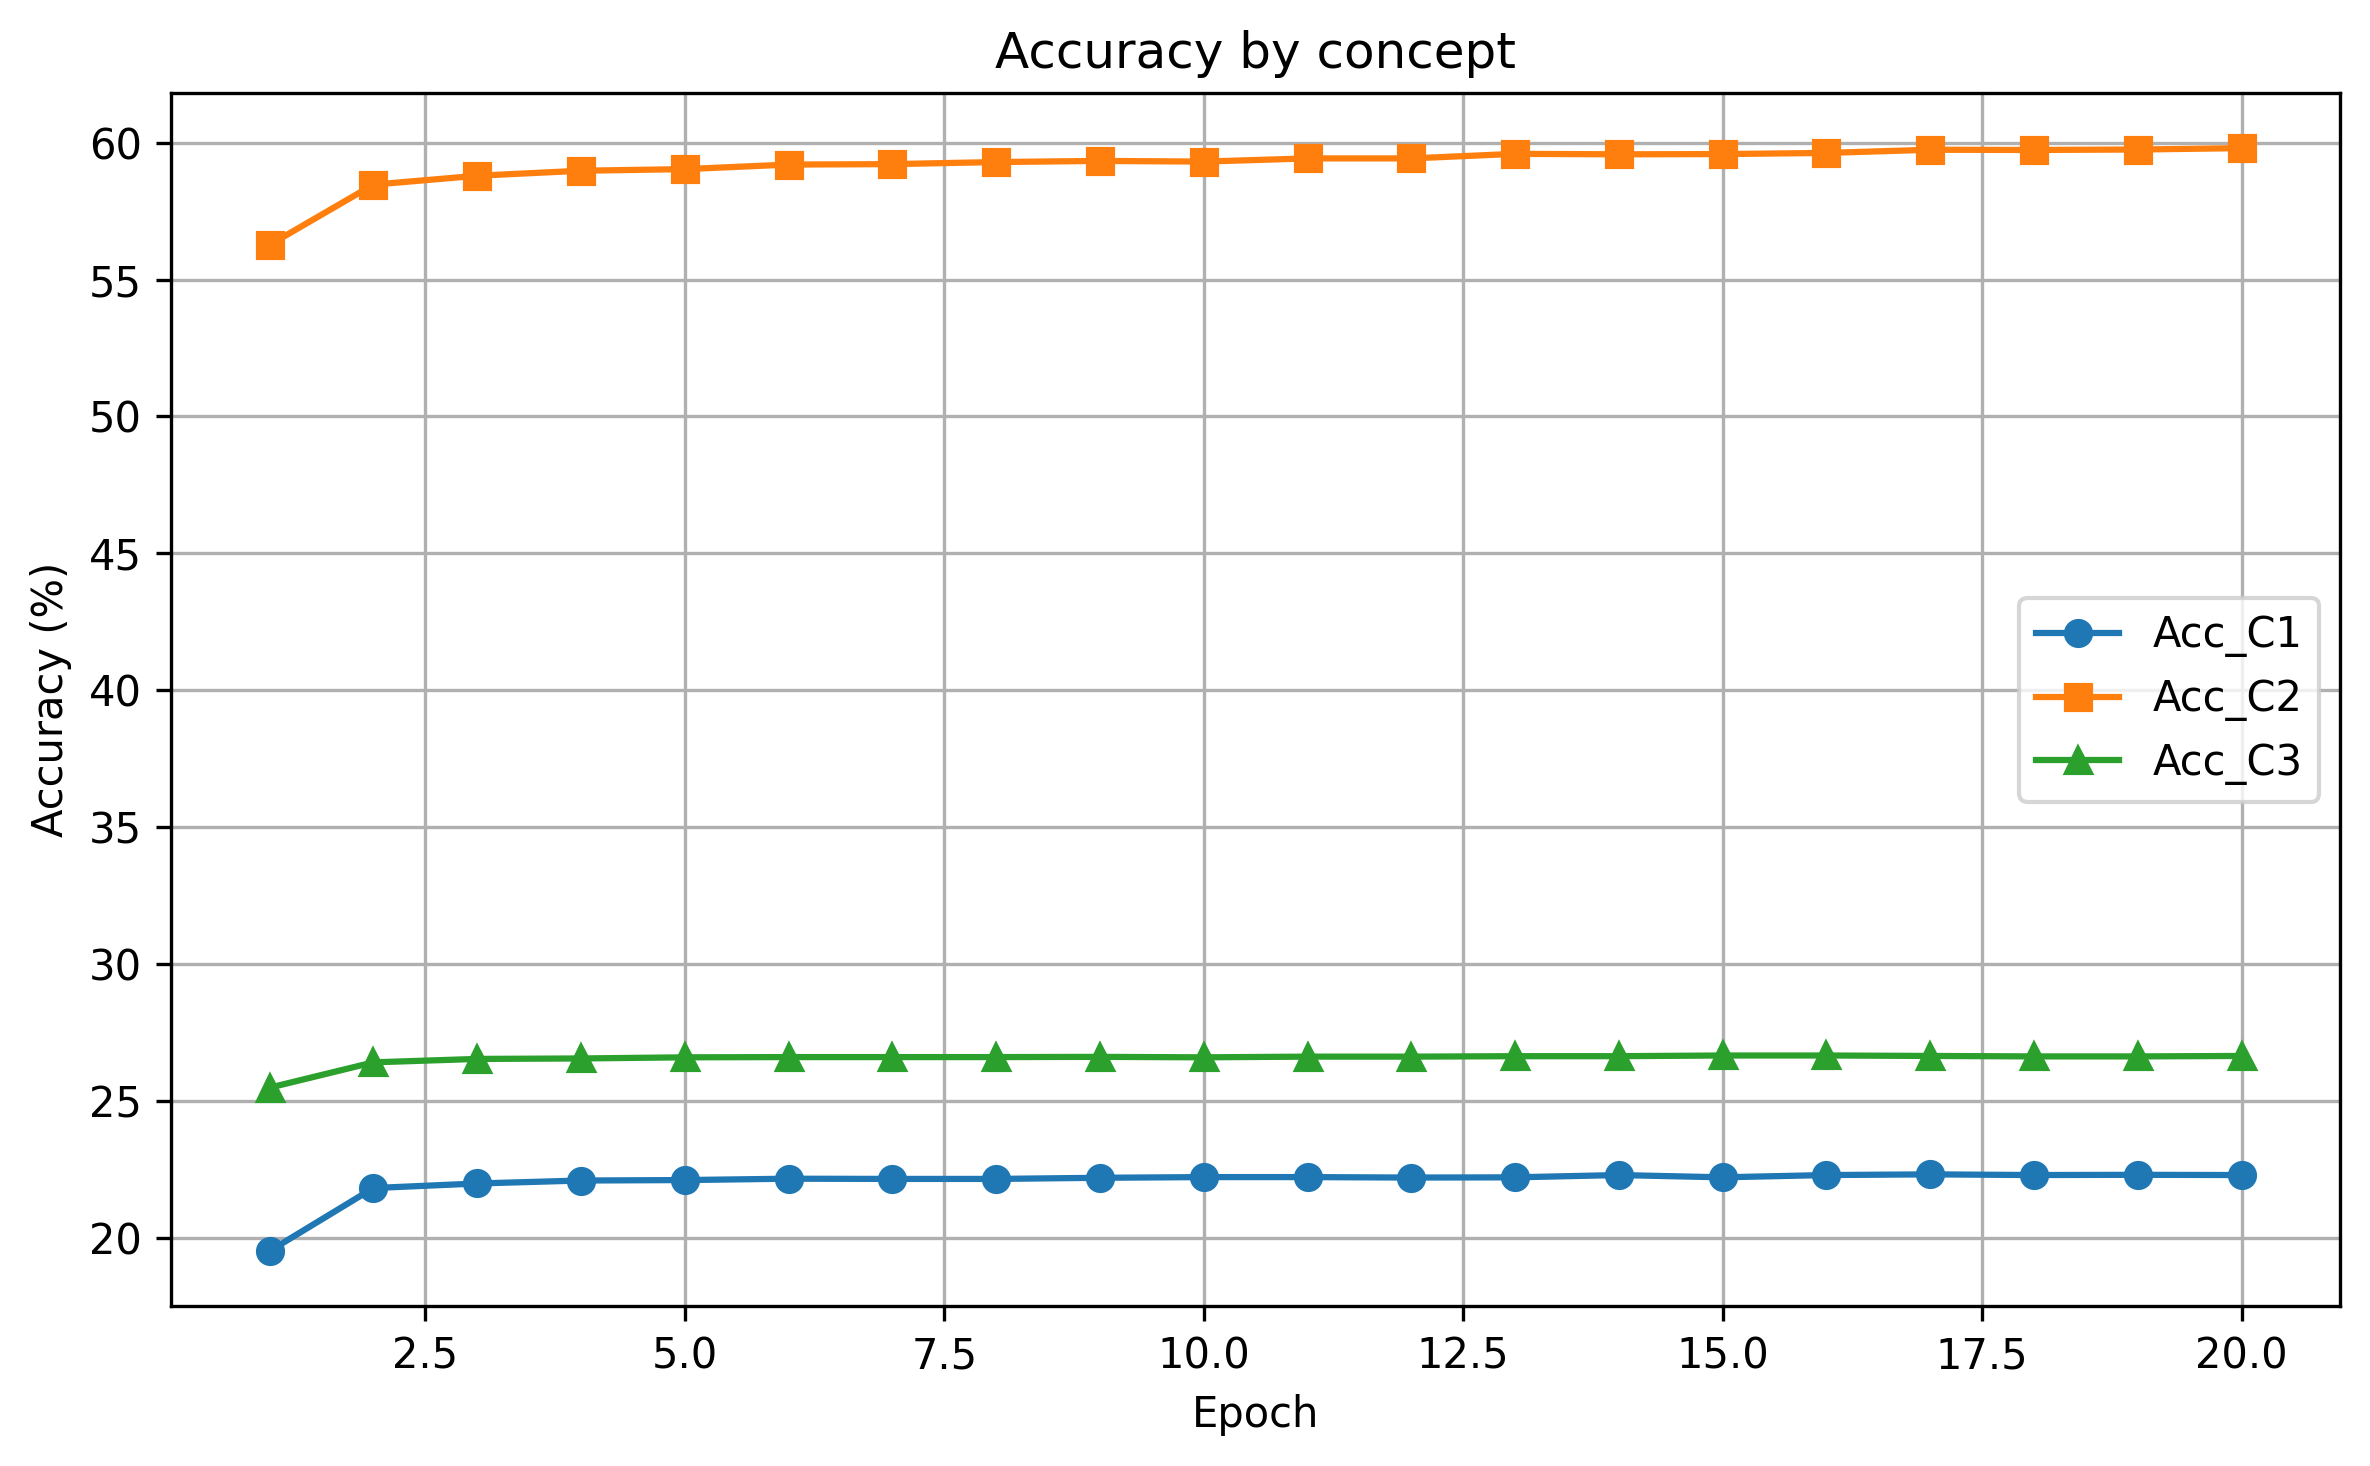
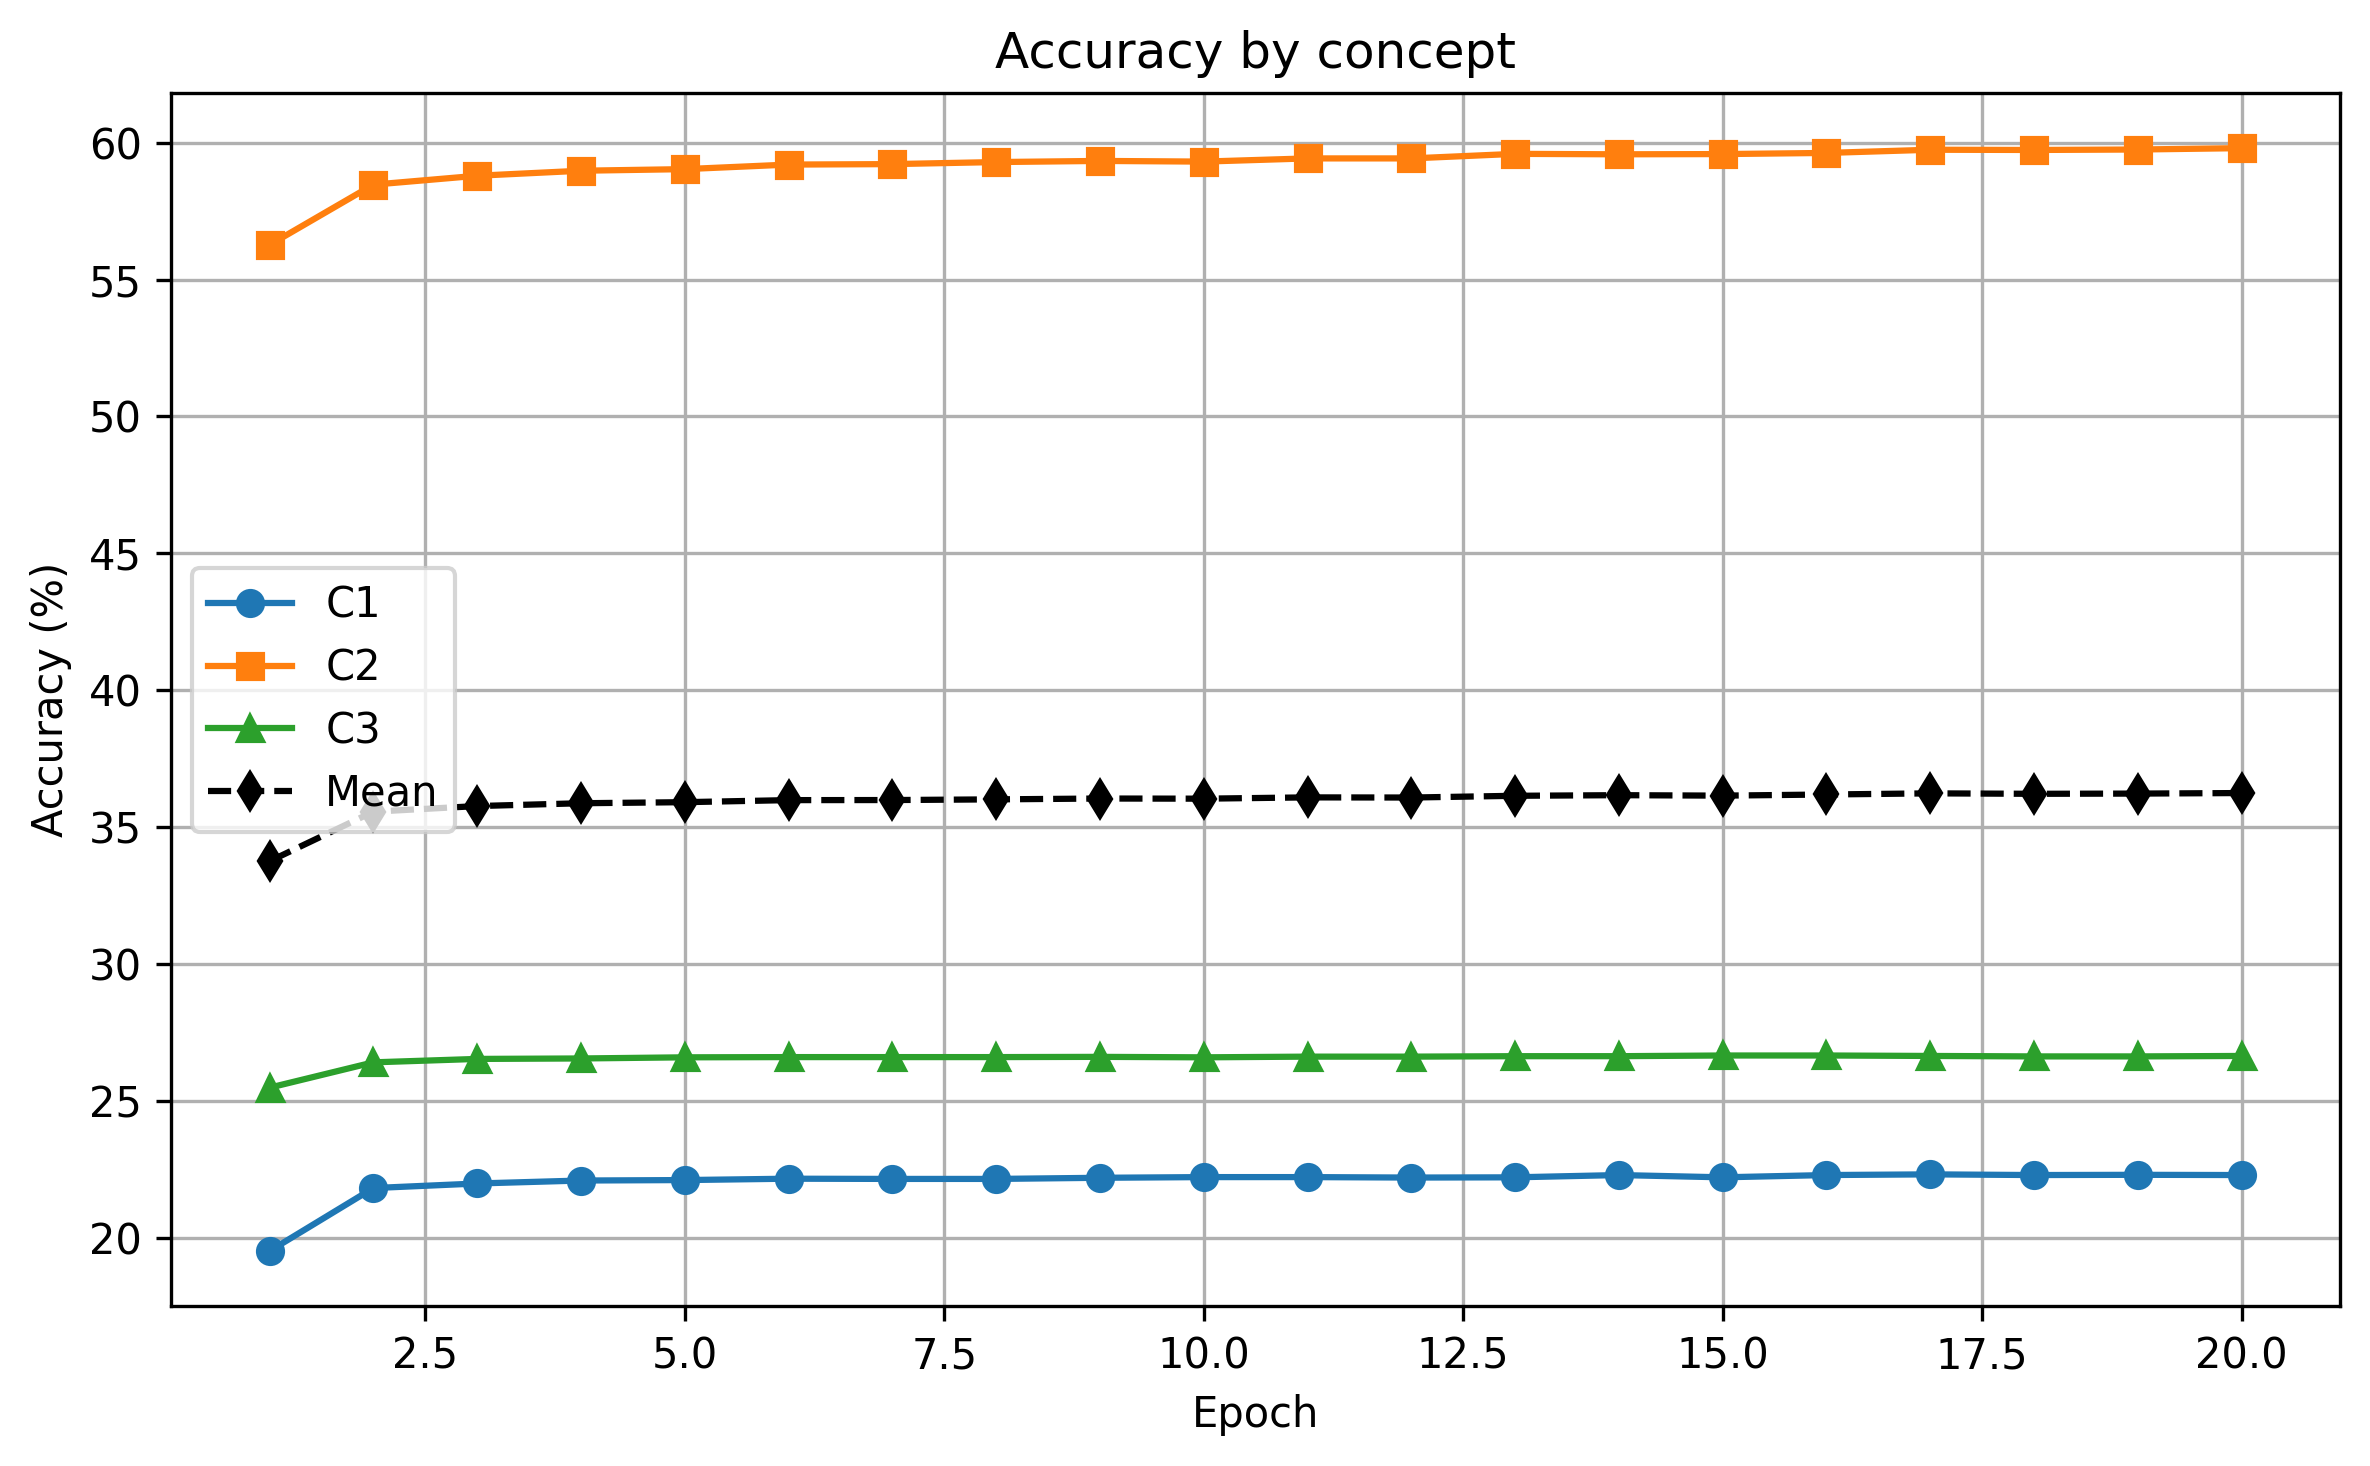
Graph of mean concepts

Changed region(s): [[0.0937, 0.399, 0.9679, 0.6139], [0.1561, 0.3683, 0.1873, 0.399]]

diff --git a/fashion_mnist/clothing/graphs.py b/fashion_mnist/clothing/graphs.py
@@ -143,11 +143,12 @@ class Graphs():
                 continue
 
             df = pd.read_csv(csv_file)
+            df["acc_mean"] = df[["acc_C1", "acc_C2", "acc_C3"]].mean(axis=1)
             plt.figure(figsize=(8,5))
             plt.plot(df["epoch"], df["acc_C1"], label="C1", marker="o")
             plt.plot(df["epoch"], df["acc_C2"], label="C2", marker="s")
             plt.plot(df["epoch"], df["acc_C3"], label="C3", marker="^")
-
+            plt.plot(df["epoch"], df["acc_mean"], label="Mean", marker="d",  linestyle="--", color="black")
             plt.xlabel("Epoch")
             plt.ylabel("Accuracy (%)")
             plt.title("Accuracy by concept")